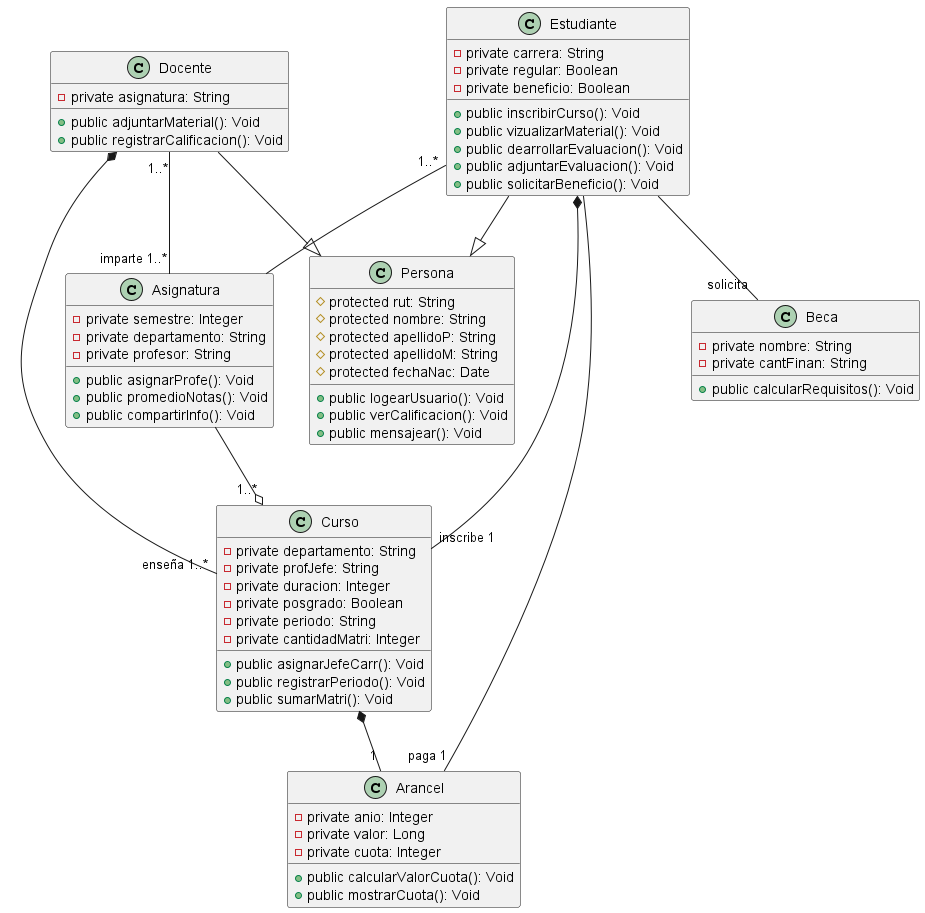
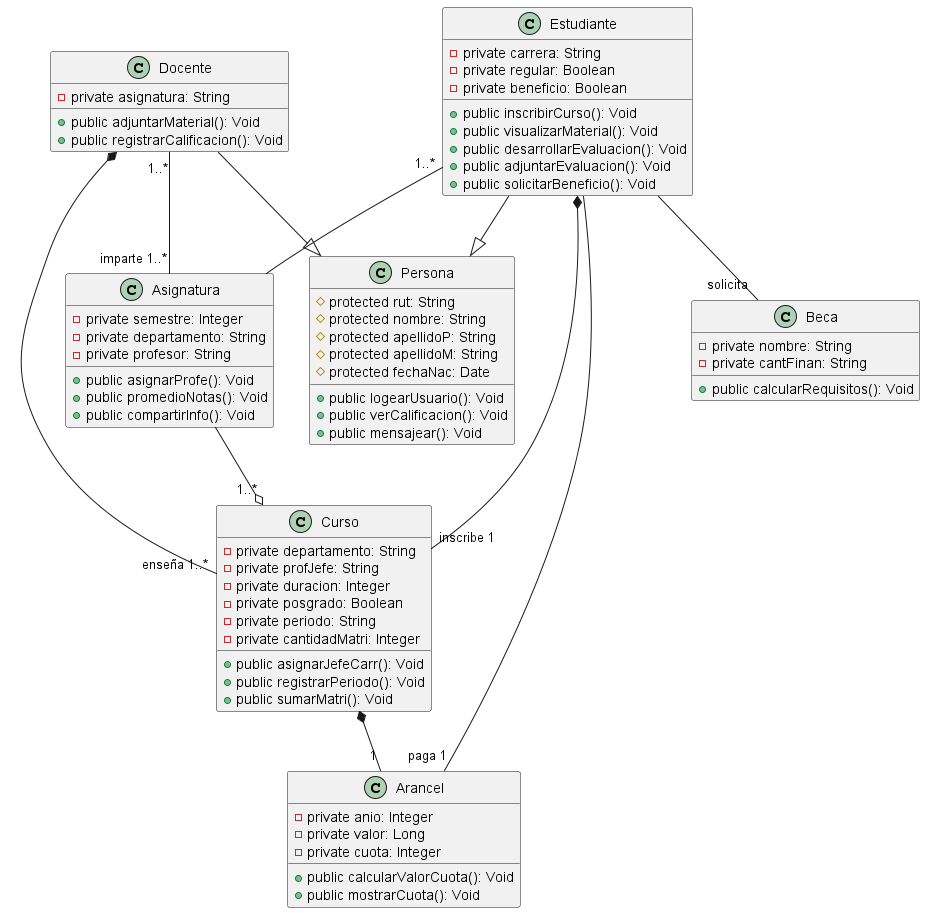
versionPrototipoInicialCHECK

Changed region(s): [[0.4541, 0.0307, 0.7568, 0.2147]]

diff --git a/evaluacion4POO.py b/evaluacion4POO.py
@@ -1,5 +1,7 @@
 from datetime import datetime
 
+# --------------------------------------------------------------------------------------------------------------------------
+
 class Persona:
     def __init__(self, rut, nombre, apellidoP, apellidoM):
         self._rut = rut
@@ -8,11 +10,21 @@ class Persona:
         self._apellidoM = apellidoM
         self._fechaNac = datetime.now()
 
-    def logearUsuario(self):
+
+    def logearUsuario(self):                                                 # Logeo Default
         print("------ Iniciar sesión ------")
         self._rut = str(input("Ingrese RUT: "))
         self._nombre = str(input("Ingrese Nombre: "))
 
+
+    def verCalificacion(self):
+        pass
+
+
+    def mensajear(self):
+        pass
+
+# --------------------------------------------------------------------------------------------------------------------------
 
 class Docente (Persona):
     def __init__(self, rut, nombre, apellidoP, apellidoM, asignatura):
@@ -22,7 +34,9 @@ class Docente (Persona):
         self.__notasSemestre = 0
         self.__contador = 0
 
-    def logearUsuario(self):
+
+    def logearUsuario(self):                                                 # Logeo Docente
+        print("--------------------------------------------------------------------------------------------------------------")
         print("°°°    Sección Docente   °°°")
         print("------ Iniciar sesión ------")
         self._rut = str(input("Ingrese RUT: "))
@@ -30,11 +44,15 @@ class Docente (Persona):
         print(f"Bienvenido profesor/a {self._nombre}")
         self.adjuntarMaterial()
 
-    def adjuntarMaterial(self):
+
+    def adjuntarMaterial(self):   # Acá Docente inicia la asignatura del semeste. Puede estipular la cantidad de evaluaciones por ejemplo.
+        print("--------------------------------------------------------------------------------------------------------------")
         self.__notasSemestre = int(input("Antes de comenzar actividades. ¿Cuántas notas ingresará este semestre? "))
         self.registrarCalificacion()
 
-    def registrarCalificacion(self):
+
+    def registrarCalificacion(self):   # Acá Docente ingresará las notas de los Estudiantes.
+        print("--------------------------------------------------------------------------------------------------------------")
         while self.__contador < self.__notasSemestre:
             self.__nota = int(input("Ingrese nota: "))
             
@@ -43,11 +61,12 @@ class Docente (Persona):
                 return
             
             self.__contador += 1
-            self.__asignatura.almacenaNotas(self.__nota, self.__notasSemestre)
-        
+            self.__asignatura.compartirInfo(self.__nota, self.__notasSemestre) # Llamamos a la instancia de Asignatura y a su método de información
         print("Ya ingresó el número máximo de notas en este semestre.")
-        self.__asignatura.promedioNotas()
+        
+        self.__asignatura.promedioNotas()   # Llamamos a la instancia de Asignatura y a su método de promedio
 
+# --------------------------------------------------------------------------------------------------------------------------
 
 class Estudiante (Persona):
     def __init__(self, rut, nombre, apellidoP, apellidoM, carrera):
@@ -57,18 +76,39 @@ class Estudiante (Persona):
         self.__beneficio = False
         self.__inscribe = ""
 
-    def logearUsuario(self):
+
+    def logearUsuario(self):                                                 # Logeo Estudiante
+        print("--------------------------------------------------------------------------------------------------------------")
         print("°°°    Sección Alumno   °°°")
         print("------ Iniciar sesión ------")
         self._rut = str(input("Ingrese RUT: "))
         self._nombre = str(input("Ingrese Nombre: "))
+        print("--------------------------------------------------------------------------------------------------------------")
         print(f"Bienvenido alumno/a {self._nombre}")
         self.inscribirCurso()
 
-    def inscribirCurso(self):
-        self.__inscribe = str(input("Inscriba una carrera: "))
-        self.__carrera.sumarMatri(self.__inscribe)
 
+    def inscribirCurso(self):   # Acá Estudiante inscribe un curso/carrera. Prototipo inicial con margen de mejora.
+        self.__inscribe = str(input("Inscriba una carrera: "))
+        self.__carrera.sumarMatri(self.__inscribe) # Llamamos a la instancia de Curso y a su método de matriculados.
+
+
+    def visualizarMaterial(self):
+        pass
+
+
+    def desarrollarEvaluacion(self):
+        pass
+
+
+    def adjuntarEvaluacion(self):
+        pass
+
+
+    def solicitarBeneficio(self):
+        pass
+
+# --------------------------------------------------------------------------------------------------------------------------
 
 class Curso:
     def __init__(self, departamento, profJefe, duracion, periodo, cantidadMatri):
@@ -80,12 +120,23 @@ class Curso:
         self.__cantidadMatri = cantidadMatri
         self.__nroMatri = 0
 
-    def sumarMatri(self, cantidadMatri):
+
+    def asignarJefeCarr(self):
+        pass
+    
+    
+    def registrarPeriodo(self):
+        pass
+
+
+    def sumarMatri(self, cantidadMatri): # Registra carrera y suma matriculados. Prototipo inicial con margen de mejora.
         self.__cantidadMatri = cantidadMatri
         self.__nroMatri += 1
 
+        print("--------------------------------------------------------------------------------------------------------------")
         print(f"Para la carrera de {self.__cantidadMatri} hay un total de {self.__nroMatri} alumnos inscritos")
 
+# --------------------------------------------------------------------------------------------------------------------------
 
 class Asignatura:
     def __init__(self, semestre, departamentoAsig, profesor, nota, notasSemestre):
@@ -97,21 +148,30 @@ class Asignatura:
         self.__promedio = 0
         self.__cantidadNotas = 0
 
-    def almacenaNotas(self, nota, notasSemestre):
-        #if (self.__cantidadNotas < self.__notasSemestre):
+
+    def asignarProfe(self):
+        pass
+    
+    
+    def compartirInfo(self, nota, notasSemestre):   # Prototipo inicial con margen de mejora de la información semestral de la asignatura, de momento solo gestiona notas.
         self.__notasSemestre = notasSemestre 
         self.__nota += nota
         self.__cantidadNotas = self.__cantidadNotas + 1
         self.__promedio = self.__nota / self.__cantidadNotas
     
-    def promedioNotas(self):
+
+    def promedioNotas(self):   # Muestra promedio de nota para el Estudiante
+        print("--------------------------------------------------------------------------------------------------------------")
         print(f"{self.__promedio}")
 
         if (self.__promedio >= 4):
             print(f"El alumno/a aprobó la asignatura con promedio {self.__promedio}")
         else:
             print(f"El alumno/a reprobó la asignatura con promedio {self.__promedio}")
+        
+        print("--------------------------------------------------------------------------------------------------------------")
 
+# --------------------------------------------------------------------------------------------------------------------------
 
 class Arancel:
     def __init__(self, anio, valor, cuota):
@@ -120,11 +180,25 @@ class Arancel:
         self.__cuota = cuota
 
 
+    def calcularValorCuota(self):
+        pass
+
+
+    def mostrarCuota(self):
+        pass
+
+# --------------------------------------------------------------------------------------------------------------------------
+
 class Beca:
     def __init__(self, nombreBec, cantFinan):
         self.__nombreBec = nombreBec
         self.__cantFinan = cantFinan
 
+
+    def calcularRequisitos(self):
+        pass
+
+# --------------------------------------------------------------------------------------------------------------------------
 
 curso = Curso("", "", 0, "", "")
 novato = Estudiante("", "", "", "", curso)

diff --git a/README.md b/README.md
@@ -3,10 +3,34 @@ Benjammín Carrasco Concha.   20.022.665-8   23/04/2026
 
 En esta sección, encontrará el prototipo inicial de un sistema computacional diseñado y desarrollado para universidades y sus procesos académicos y administrativos.
 
-Diagrama de clases.
+Diagrama de clases:
 
 1. El desarrollo del diagrama comenzó definiendo las clases usuarios: clase Docente y clase Estudiante. Para optimizar la contaminación de atributos y métodos, creé una superclase llamada "Persona" que tomarará los datos compartidos entre ambos usuarios. También, definí sus relaciones de herencia, las relaciones están declaradas al final del código del diagrama.
 
 2. Seguimos con la definición de las clases "Curso" y "Asignatura" para continuar con sus relaciones y aprovechamos de enlazar relaciones con las clases usuarios. Un Docente puede impartir más de una asignatura y puede enseñar en más de un curso, así como una asignatura, dependiendo del curso y período, puede ser impartida por más de un Docente.
 
 3. Por último, definimos dos clases administrativas iniciales: clase Arancel y clase Beca. Pulimos y creamos las últimas relaciones y métodos.
+
+Estructura código:
+
+- El código es la primera versión del sistema y se experimenta con algunas funciones básicas e iniciales.
+- Todas las clases están declaradas en el programa.
+- Hay herencia entre la superclase Persona y sus subclases Docente y Estudiante.
+- En la familia de clases que heredan, hay polimorfismo en el método logearUsuario().
+- El encapsulamiento está diseñado a las necesidades que requiere cada clase.
+- La separación entre clases está bien señalizada.
+- Hay comentarios en las partes más complejas del código para guiar a los demás desarrolladores.
+
+Instrucciones de ejecución:
+
+1. Primero iniciarás sesión como estudiante e inscribirás un curso.
+2. Luego, iniciarás sesión como docente y decidirás cuantas notas ingresarás.
+3. Aún como docente, probarás el ingreso de notas y te retornará el promedio junto con el mensaje de aprobación o reprobación.
+
+Tecnologías usadas:
+
+- Visual Studio Code
+- PlantUML en VS Code
+- Lenguaje Python
+- Controlador de versiones GIT
+----------------------------------------------------------------------------------------------------------------------------------
